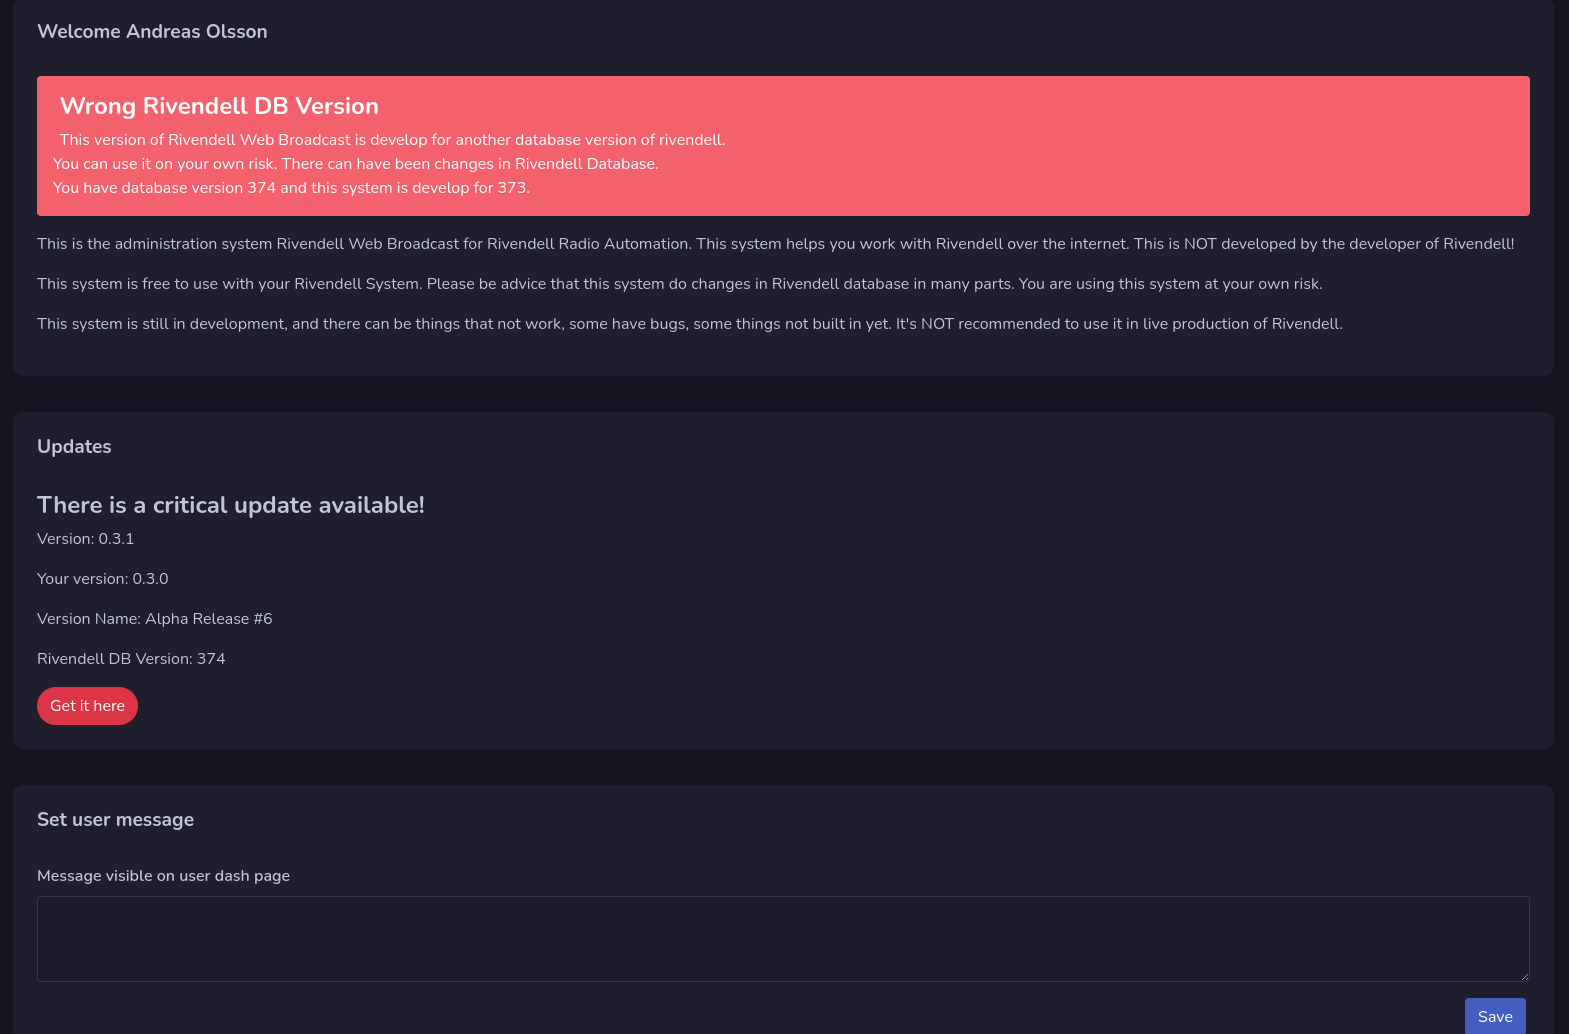
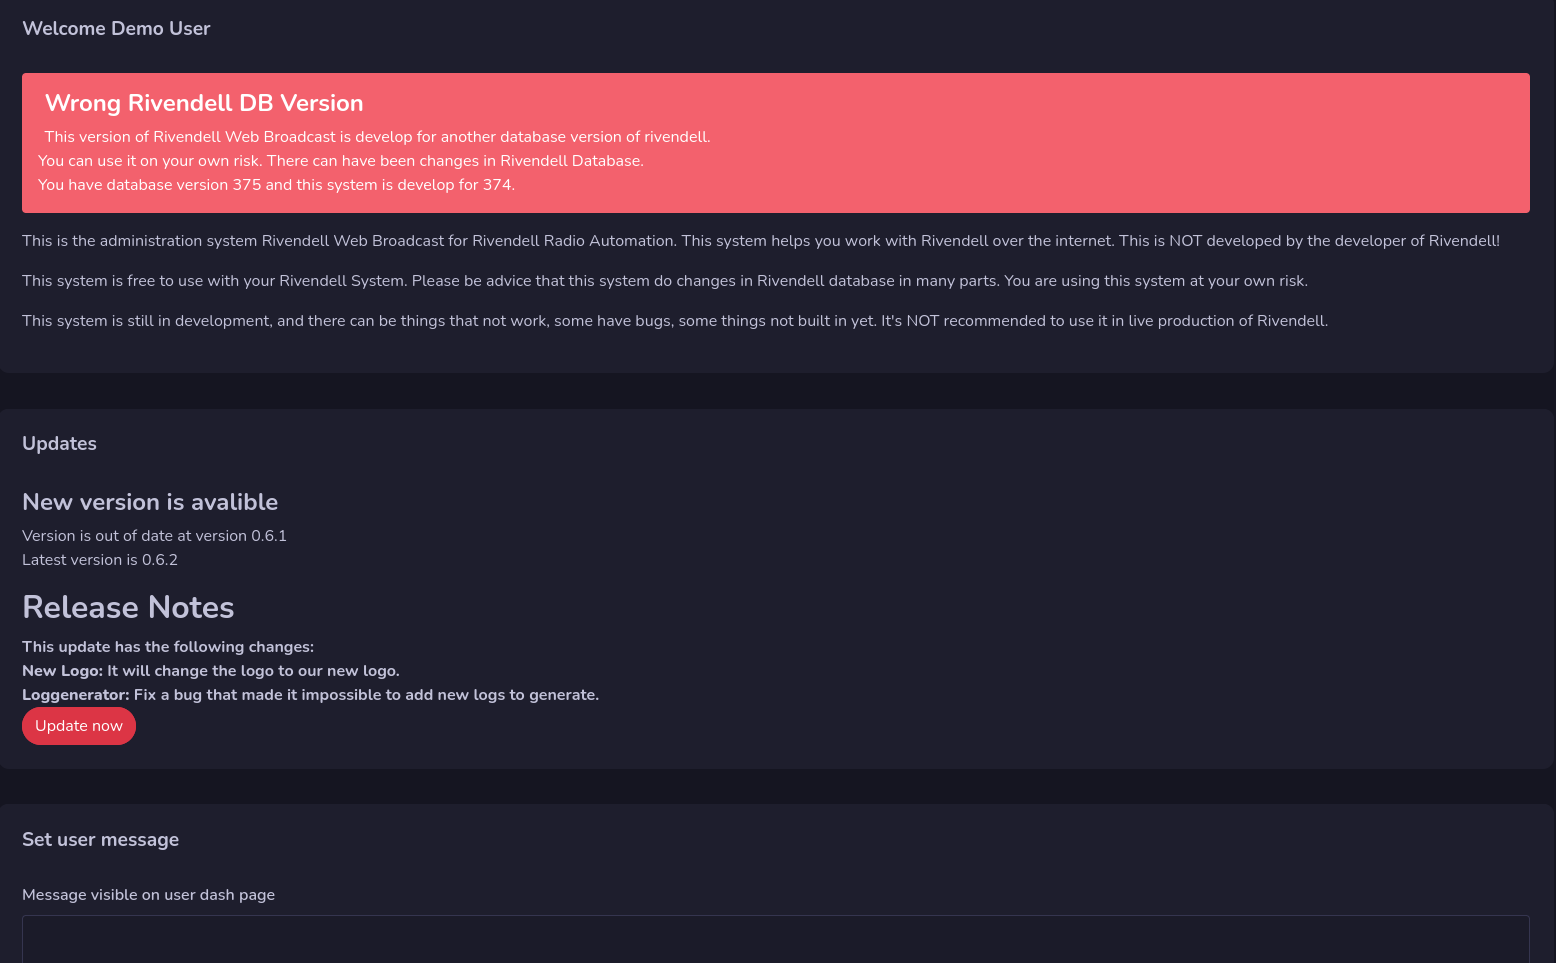
Added document for Updates

diff --git a/docs/updates.md b/docs/updates.md
@@ -1,0 +1,39 @@
+# Update Rivendell Web Broadcast
+
+![Screenshot](img/updatewindow.png)
+
+When you are in update window you can do updates directly to the system without have to manage files on your server.
+
+!!! Info
+
+    **You need to have admin rights to do updates**
+
+When you are in update mode, your system will be put in maintenance mode.
+This means that your user can not use the system during the update.
+
+## Update system
+To update your system press the **Update now** button.
+
+![Screenshot](img/isupdate.png)
+
+If there are no problems, your update will finish with success. But if there are problems it will inform you about it and abort the update.
+
+The update system will do:
+
+- Backups
+- Check if it has read and write access
+- Run scripts (If needed for the system)
+- Update your files
+
+The update system only updates files that has been changed or added, it don't replace all files. So the update should be done quickly.
+
+!!! Warning
+
+    **There must be read and write on the files on the server for the update system to work.**
+
+## Update is done
+When the update is done, press the **Finished** button to reload the update window to make sure everything was successful.
+
+![Screenshot](img/updatedone.png)
+
+It will inform you that the version is up to date. Now just click on **Done** button to exit the update and release the Maintenance mode.

diff --git a/docs/admindash.md b/docs/admindash.md
@@ -10,9 +10,9 @@ This system will warn you if you are using rivendell with wrong database version
 You can use it anyway but there can be changes to rivendells database that not work with this web system. As always you use it on your own risk.
 
 ## Updates
-If there are new updates on the release page on github you will get notice about it here. It will inform you if it's an critical update or an normal update.
+If there are new updates on the release page on github you will get notice about it here. There will be an **Update now** button available.
 
-Critical update is an important update that will fix some major fixes in the system.
+If You press the **Update now** button it will take you to the update part and put your system in maintenance mode. See Update section for more information about to update.
 
 ## Set user message
 This part is only visible if your account have access to this part. This is where you set the message that will be displayed on users dashboard.
